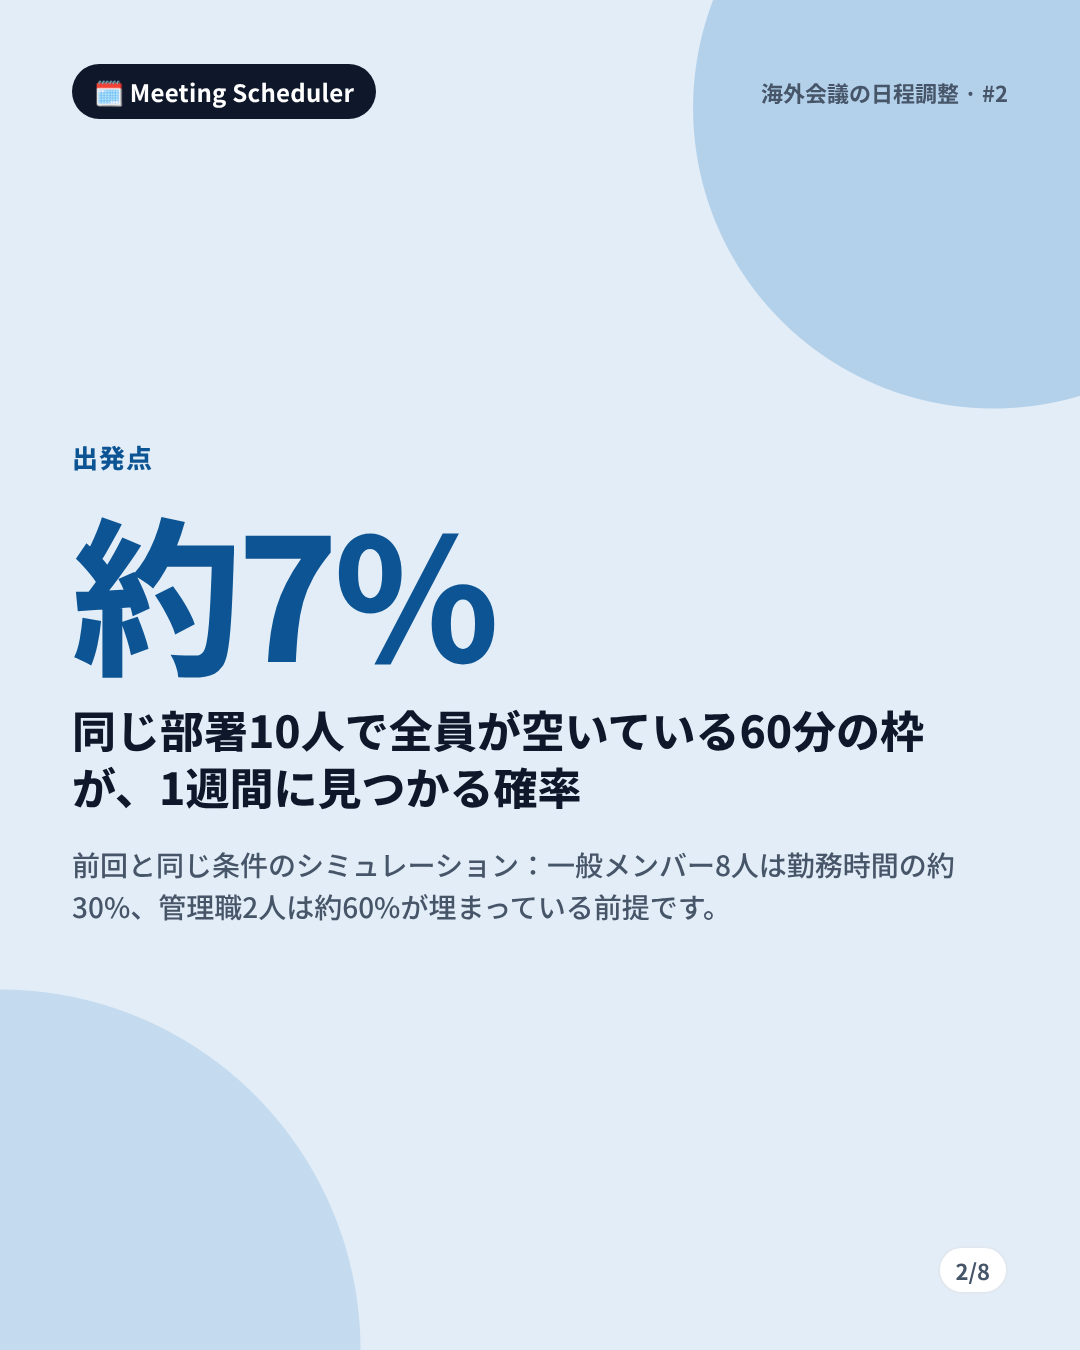
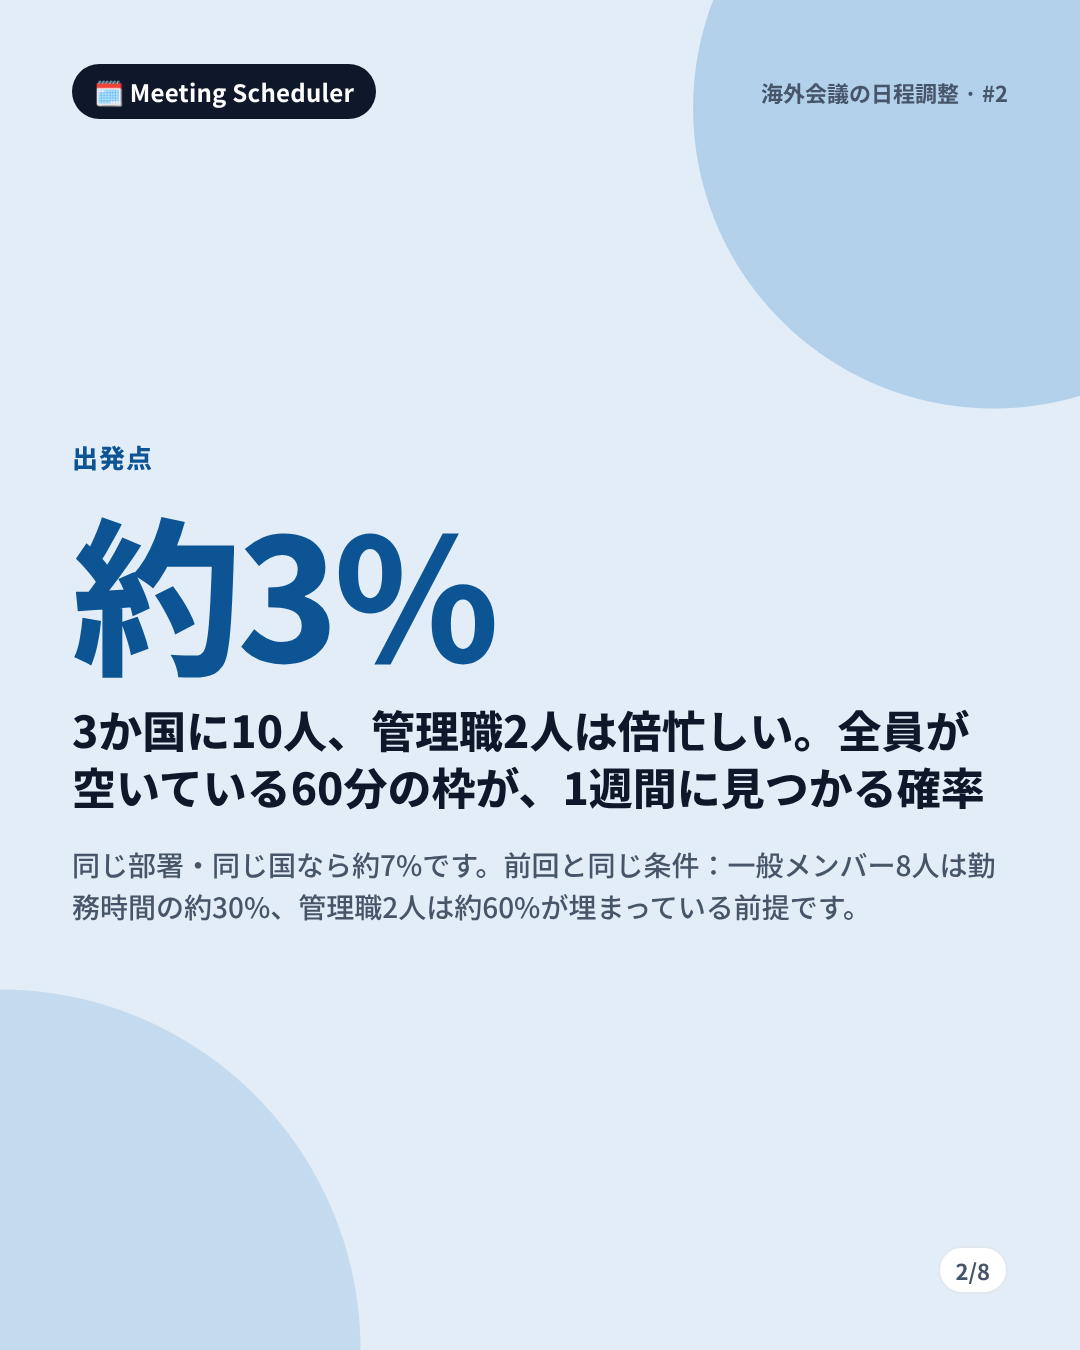
Add the cross-country factor to the manager-calendar post and the pain post
- Post 02-manager-busy (vi/ja/en) now headlines the three-country case (Vietnam, India, South Korea)
  with the same-country figure beside each number: baseline 3% vs 7%, only-staff-required 39% vs 61%,
  30-minute meetings 36% vs 65%, 4-week search 10% vs 30%, at-most-one-not-free slots 32% vs 57%.
- Post 01-pain: the manager slide and caption now note that spreading the group over three countries
  drops the chance to about 3%.
- Brief: new simulation claim with assumptions; proposal: comparison table for three countries vs one.

Claude-Session: https://claude.ai/code/session_011t3UGBVaHDhMtDnGGj67V4

Changed region(s): [[0.0611, 0.5289, 0.9167, 0.6844], [0.2139, 0.3733, 0.3056, 0.4978], [0.2139, 0.3733, 0.2444, 0.4044]]

diff --git a/docs/proposals/meeting-scheduler-large-global-groups.md b/docs/proposals/meeting-scheduler-large-global-groups.md
@@ -30,6 +30,19 @@ bận 30% giờ làm, "quản lý" **giả định** bận 60%, 2000 lần chạ
 Nhóm 5 người cùng một nước: 100% khi không có quản lý, 89% khi có 1 quản lý. Chạy thô hơn (300 lần mỗi ô, người chia đều ba nước) cho thấy
 số người tăng thì khung chung sụp rất nhanh: ở mức bận 20/30/40%, nhóm 3 người 100/100/98%, nhóm 10 người 73/12/2%, nhóm 15 người 23/1/0%.
 
+**Khi nhóm trải ra nhiều nước, mọi cách đều kém hiệu quả hơn** (10 người, 8 người thường bận 30% + 2 quản lý bận 60%, mô phỏng; số trong ngoặc là cùng một nước):
+
+| Cách | Xác suất có khung chung / tuần |
+|---|---|
+| Nền (60 phút, 1 tuần) | 3% (7%) |
+| Chỉ bắt buộc 8 người thường | 39% (61%) |
+| 8 người thường + ít nhất 1 quản lý | 20% (35%) |
+| Họp 30 phút | 36% (65%) |
+| Tìm 2 tuần / 4 tuần | 7% / 10% (14% / 30%) |
+| Có khung mà nhiều nhất 1 người không rảnh | 32% (57%) |
+
+Trong các khung đó, người không rảnh duy nhất là quản lý ở 55% số khung (48% khi cùng một nước).
+
 Lưu ý: giả định họp độc lập, không nghỉ trưa, không ngày lễ, và "quản lý bận hơn" là giả định chứ chưa đo trên lịch thật; lịch thật dồn cục
 hơn nên chỉ dùng để minh hoạ xu hướng. Quan trọng nhất: **ngay cả khi không có múi giờ nào để đổ lỗi, chỉ riêng việc người này họp khung này,
 người kia họp khung khác đã đủ làm khung chung gần như biến mất.**
